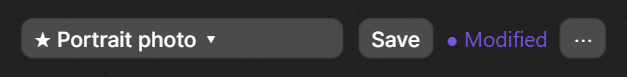
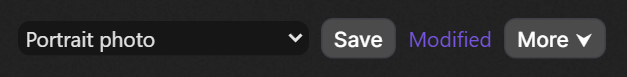
Make the picker a standard SwarmUI dropdown; match Swarm's wording and controls (#13)
Picker is select.auto-dropdown with Starred and folder groups; Swarm wording; folder shown beside starred workspaces.

diff --git a/Assets/workspaces.js b/Assets/workspaces.js
@@ -1381,43 +1381,45 @@ class HartsyWorkspacesManager {
 
     /**
      * Builds the toolbar element and wires its buttons. Call only from ensureToolbar, which makes sure there is just one.
-     * The picker and the "..." menu are SwarmUI's own popovers (AdvancedPopover), opened on demand, so they match every theme.
+     * The picker is a plain SwarmUI dropdown (select.auto-dropdown) and the menu is SwarmUI's own popover (AdvancedPopover), so both follow every theme.
      * @returns {Element} The new toolbar, not yet placed on the page.
      */
     buildToolbar() {
         let toolbar = createDiv(null, 'hartsy-workspaces-toolbar');
         toolbar.innerHTML = '<div class="hartsy-workspaces-bar">'
-            + '<button class="basic-button hartsy-workspaces-picker" title="Choose a workspace to load">No workspace</button>'
+            + '<select class="auto-dropdown hartsy-workspaces-picker" autocomplete="off" title="Choose a workspace to load"></select>'
             + '<button class="basic-button hartsy-workspaces-save" title="Save the current settings (Shift+S)">Save</button>'
-            + '<span class="hartsy-workspaces-modified" title="The settings differ from the saved workspace" hidden>● Modified</span>'
-            + '<button class="basic-button hartsy-workspaces-more" title="More actions" aria-label="More workspace actions">⋯</button>'
+            + '<span class="hartsy-workspaces-modified" title="The settings differ from the saved workspace" hidden>Modified</span>'
+            + '<button class="basic-button hartsy-workspaces-more" title="More workspace actions">More &#x2B9F;</button>'
             + '</div>'
             + '<div class="parens hartsy-workspaces-status" role="status"></div>';
         toolbar.querySelector('.hartsy-workspaces-save').addEventListener('click', () => {
             this.saveCurrent();
         });
-        // A click on a button whose own popover is open closes it (SwarmUI does that before this runs), so remember on mousedown whether it was open, to toggle instead of reopening. A click on the other button just switches popovers.
-        let wire = (selector, popoverId, open) => {
-            let button = toolbar.querySelector(selector);
-            let wasOpen = false;
-            button.addEventListener('mousedown', () => {
-                wasOpen = this.isPopoverOpen() && this.activePopover.id == popoverId;
-            });
-            button.addEventListener('click', () => {
-                let skip = wasOpen;
-                wasOpen = false;
-                if (!skip && !this.busy) {
-                    open(button.getBoundingClientRect());
-                }
-            });
-        };
-        wire('.hartsy-workspaces-picker', 'hartsy_workspaces_picker', rect => this.showPopover('hartsy_workspaces_picker', this.pickerButtons(), true, rect));
-        wire('.hartsy-workspaces-more', 'hartsy_workspaces_menu', rect => this.showPopover('hartsy_workspaces_menu', this.menuButtons(), false, rect));
+        let picker = toolbar.querySelector('.hartsy-workspaces-picker');
+        picker.addEventListener('change', async () => {
+            await this.pickWorkspace(picker.value);
+            // Whatever happened (loaded, declined, failed), show the workspace the Generate tab is really attached to.
+            this.refreshToolbar();
+        });
+        // A click on the button while its popover is open closes it (SwarmUI does that before this runs), so remember on mousedown whether it was open, to toggle instead of reopening.
+        let more = toolbar.querySelector('.hartsy-workspaces-more');
+        let wasOpen = false;
+        more.addEventListener('mousedown', () => {
+            wasOpen = this.isPopoverOpen();
+        });
+        more.addEventListener('click', () => {
+            let skip = wasOpen;
+            wasOpen = false;
+            if (!skip && !this.busy) {
+                this.openMenu(more.getBoundingClientRect());
+            }
+        });
         return toolbar;
     }
 
     /**
-     * Returns whether one of this toolbar's popovers is currently open.
+     * Returns whether the toolbar's menu popover is currently open.
      * @returns {boolean} True if open.
      */
     isPopoverOpen() {
@@ -1425,80 +1427,113 @@ class HartsyWorkspacesManager {
     }
 
     /**
-     * Opens a SwarmUI popover under a toolbar button, closing any popover of this toolbar that is already open.
-     * @param {string} id Popover ID.
-     * @param {Array<Object>} buttons Entries in AdvancedPopover's format: { key, key_html, title, searchable, action }.
-     * @param {boolean} canSearch True to include SwarmUI's search box.
+     * Opens the "More" menu as a SwarmUI popover under its button.
      * @param {DOMRect} rect The bounds of the button to open under.
      */
-    showPopover(id, buttons, canSearch, rect) {
+    openMenu(rect) {
         if (this.isPopoverOpen()) {
             this.activePopover.remove();
         }
-        this.activePopover = new AdvancedPopover(id, buttons, canSearch, rect.x, rect.bottom + 4, document.body);
+        this.activePopover = new AdvancedPopover('hartsy_workspaces_menu', this.menuButtons(), false, rect.x, rect.bottom + 4, document.body);
     }
 
     /**
-     * Builds the picker's entries: bookmarked workspaces first, then by folder, then by name, followed by the actions that leave the list.
-     * The folder shows beside the name and is searchable. Typing in the search box and pressing Enter loads the first match.
-     * @returns {Array<Object>} The popover entries.
-     */
-    pickerButtons() {
-        let text = value => `${value || ''}`;
-        let sorted = this.workspaces.slice().sort((a, b) => (b.bookmarked ? 1 : 0) - (a.bookmarked ? 1 : 0) || text(a.folder).localeCompare(text(b.folder)) || text(a.name).localeCompare(text(b.name)));
-        let buttons = [];
-        for (let workspace of sorted) {
-            let folder = workspace.folder ? ` <span class="parens">- ${escapeHtml(workspace.folder)}</span>` : '';
-            buttons.push({
-                key: workspace.name,
-                searchable: `${workspace.name} ${text(workspace.folder)}`,
-                key_html: `${workspace.id == this.currentId ? '✓ ' : ''}${workspace.bookmarked ? '★ ' : ''}${escapeHtml(workspace.name)}${folder}`,
-                action: () => this.pickWorkspace(workspace.id)
-            });
-        }
-        if (this.currentId) {
-            buttons.push({ key: 'No workspace (keep the current settings)', action: () => this.pickWorkspace('') });
-        }
-        buttons.push({ key: '+ New workspace...', title: 'Save the current settings as a new workspace', action: () => this.saveNew(false) });
-        return buttons;
-    }
-
-    /**
-     * Builds the "..." menu's entries. Entries that need a selected workspace are left out when none is selected.
+     * Builds the "More" menu's entries. Entries that need a selected workspace are left out when none is selected.
      * @returns {Array<Object>} The popover entries.
      */
     menuButtons() {
         let entry = this.getCurrentEntry();
-        let buttons = [{ key: 'Save As...', title: 'Save the current settings as a copy of this workspace', action: () => this.saveNew(true) }];
+        let buttons = [{ key: 'Save As New Workspace', title: 'Save the current settings as a new workspace, keeping this one as it is', action: () => this.saveNew(true) }];
         if (entry) {
-            buttons.push({ key: 'Reload saved version', title: 'Throw away unsaved changes and load the latest saved version of this workspace', action: () => this.loadWorkspace(this.currentId) });
-            buttons.push({ key: 'Rename...', action: () => this.renameCurrent() });
-            buttons.push({ key: entry.bookmarked ? 'Remove bookmark' : 'Bookmark', title: 'Bookmarked workspaces are listed first', action: () => this.toggleBookmark() });
-            buttons.push({ key: 'Folder...', title: 'Set this workspace\'s folder', action: () => this.editOrganization() });
+            buttons.push({ key: 'Reload Saved Version', title: 'Throw away unsaved changes and load the latest saved version of this workspace', action: () => this.loadWorkspace(this.currentId) });
+            buttons.push({ key: 'Rename Workspace', action: () => this.renameCurrent() });
+            buttons.push({ key: entry.bookmarked ? 'Unstar Workspace' : 'Star Workspace', title: 'Starred workspaces are listed first', action: () => this.toggleBookmark() });
+            buttons.push({ key: 'Set Folder', title: 'Set this workspace\'s folder', action: () => this.editOrganization() });
         }
         if (this.workspaces.length > 0) {
-            buttons.push({ key: 'Load part of a workspace...', title: 'Load only some parts of a workspace and leave everything else as it is', action: () => this.showPartialDialog() });
+            buttons.push({ key: 'Load Part of Workspace', title: 'Load only some parts of a workspace and leave everything else as it is', action: () => this.showPartialDialog() });
         }
         if (entry) {
-            buttons.push({ key: 'Delete this workspace', title: 'Delete this workspace. Your current settings stay as they are', action: () => this.deleteCurrent() });
+            buttons.push({ key: 'Delete Workspace', title: 'Delete this workspace. Your current settings stay as they are', action: () => this.deleteCurrent() });
         }
         return buttons;
     }
 
     /**
-     * Redraws the toolbar's picker label, button states, and modified marker from the current state.
+     * Fills the picker dropdown: "No workspace", then starred workspaces, then one group per folder, then unfiled ones, and selects the current workspace.
+     * With no stars and no folders the list is flat. Folder names are free text, so groups are kept in a Map, not a plain object.
+     * @param {Element} select The picker's select element.
+     */
+    fillPicker(select) {
+        select.innerHTML = '';
+        let addOption = (parent, value, text) => {
+            let option = document.createElement('option');
+            option.value = value;
+            option.textContent = text;
+            parent.append(option);
+        };
+        addOption(select, '', 'No workspace');
+        let sorted = this.workspaces.slice().sort((a, b) => `${a.name}`.localeCompare(`${b.name}`));
+        let starred = [];
+        let unfiled = [];
+        let folders = new Map();
+        for (let workspace of sorted) {
+            let folder = `${workspace.folder || ''}`;
+            if (workspace.bookmarked) {
+                starred.push(workspace);
+            }
+            else if (folder == '') {
+                unfiled.push(workspace);
+            }
+            else {
+                if (!folders.has(folder)) {
+                    folders.set(folder, []);
+                }
+                folders.get(folder).push(workspace);
+            }
+        }
+        let addGroup = (label, items, showFolder) => {
+            if (items.length == 0) {
+                return;
+            }
+            let group = document.createElement('optgroup');
+            group.label = label;
+            for (let workspace of items) {
+                // The Starred group mixes folders, so show the folder there: two starred workspaces can share a name.
+                addOption(group, workspace.id, showFolder && workspace.folder ? `${workspace.name} (${workspace.folder})` : workspace.name);
+            }
+            select.append(group);
+        };
+        let folderNames = Array.from(folders.keys()).sort((a, b) => a.localeCompare(b));
+        if (starred.length == 0 && folderNames.length == 0) {
+            for (let workspace of unfiled) {
+                addOption(select, workspace.id, workspace.name);
+            }
+        }
+        else {
+            addGroup('Starred', starred, true);
+            for (let folder of folderNames) {
+                addGroup(folder, folders.get(folder));
+            }
+            addGroup('Unfiled', unfiled);
+        }
+        select.value = this.currentId || '';
+        if (select.selectedIndex < 0) {
+            select.value = '';
+        }
+    }
+
+    /**
+     * Redraws the toolbar's picker, button states, and modified marker from the current state.
      */
     refreshToolbar() {
         let toolbar = document.querySelector('.hartsy-workspaces-toolbar');
         if (!toolbar) {
             return;
         }
-        let entry = this.getCurrentEntry();
-        let hasCurrent = entry != null;
-        let label = hasCurrent ? `${entry.bookmarked ? '★ ' : ''}${entry.name}` : 'No workspace';
+        let hasCurrent = this.getCurrentEntry() != null;
         let picker = toolbar.querySelector('.hartsy-workspaces-picker');
-        picker.textContent = `${label} ▾`;
-        picker.title = hasCurrent ? `${label}. Choose another workspace to load` : 'Choose a workspace to load';
+        this.fillPicker(picker);
         picker.disabled = this.busy;
         toolbar.querySelector('.hartsy-workspaces-more').disabled = this.busy;
         let save = toolbar.querySelector('.hartsy-workspaces-save');

diff --git a/Assets/workspaces.css b/Assets/workspaces.css
@@ -12,10 +12,6 @@
 .hartsy-workspaces-picker {
     flex: 1;
     min-width: 0;
-    overflow: hidden;
-    text-overflow: ellipsis;
-    white-space: nowrap;
-    text-align: left;
 }
 
 .hartsy-workspaces-modified {

diff --git a/README.md b/README.md
@@ -10,7 +10,7 @@ Early release. Everything described below works. It has been tested by hand in t
 
 ## Using it
 
-One row sits above the parameter list on the Generate tab: **[ workspace picker ] [ Save ] [ ... ]**.
+One row sits above the parameter list on the Generate tab: **[ workspace dropdown ] [ Save ] [ More ]**.
 
 ![The toolbar](docs/images/toolbar.png)
 
@@ -18,21 +18,21 @@ When the settings differ from the saved workspace, a "Modified" marker appears:
 
 ![The toolbar with unsaved changes](docs/images/toolbar-modified.png)
 
-- **Picker**: click it to open SwarmUI's searchable list of your workspaces: bookmarked ones first, then by folder, with the folder shown beside the name. Type to filter by name or folder, and press Enter to load the first match. Choosing a workspace replaces your current settings completely, and asks first if the current workspace has unsaved changes. "+ New workspace..." at the bottom saves the current settings under a new name.
+- **Picker**: a standard SwarmUI dropdown of your workspaces, grouped as Starred, then one group per folder, then Unfiled (a flat list if you use neither). Choosing a workspace replaces your current settings completely, and asks first if the current workspace has unsaved changes. With no workspace selected, Save asks for a name and creates one.
 - **Save** writes the current settings into the selected workspace (or asks for a name if none is selected). Shift+S does the same, except while you are typing in a field or a dialog or the image editor is open. If the workspace was changed elsewhere, nothing is overwritten and you are told.
 - **Modified** appears when the settings differ from the selected workspace, and goes away only after a successful save or load.
-- **...** holds everything else: Save As, Reload saved version, Rename, Bookmark, Folder, Load part of a workspace, and Delete.
+- **More** holds everything else: Save As New Workspace, Reload Saved Version, Rename Workspace, Star Workspace, Set Folder, Load Part of Workspace, and Delete Workspace.
 
-![The picker](docs/images/picker.png) ![The ... menu](docs/images/menu.png)
+![The More menu](docs/images/menu.png)
 
 ### More detail
 
-- **Save As** copies the folder (not the bookmark). **Reload saved version** throws away unsaved changes and loads the latest saved version, for example after it was changed elsewhere. **Delete** leaves your current settings as they are.
+- **Save As New Workspace** copies the folder (not the star). **Reload Saved Version** throws away unsaved changes and loads the latest saved version, for example after it was changed elsewhere. **Delete Workspace** leaves your current settings as they are.
 - **Load part of a workspace** opens a dialog to load only some parts: the model, the presets, or any parameter group. Only the ticked parts change, and everything else stays as it is. If you tick a group that is switched on inside a parent group that is off, the parent is switched on too, and you are told. The settings then count as modified, because they no longer match the workspace.
 
 ![Partial load dialog](docs/images/partial-load-dialog.png)
 
-- **Bookmark** lists a workspace first. **Folder** sets a folder name (at most 100 characters). Saving settings never changes a workspace's folder or bookmark.
+- **Star Workspace** lists a workspace first. **Set Folder** sets a folder name (at most 100 characters). Saving settings never changes a workspace's folder or star.
 - **Drafts**: while the selected workspace has unsaved changes, a draft of them is kept in your browser a couple of seconds after each change. If you reload the page or close the tab, a notice below the toolbar offers to **Restore** or **Discard** it. Restoring loads the workspace first and then puts the draft on top, so it shows as unsaved changes and never overwrites the saved workspace. Each browser tab keeps its own draft, and a draft from a tab that is still open is never offered.
 
 ## What a workspace saves, and what loading does

diff --git a/AGENTS.md b/AGENTS.md
@@ -44,7 +44,7 @@ Named workspaces for the SwarmUI Generate tab. A workspace is a snapshot of para
 
 - Must work on current Chrome, Firefox, Safari and on modern mobile browsers.
 - JS: `let`, never `var` or `const`; full braced blocks; `else {` on its own line, never `} else {`; `/** ... */` doc on every function; `for (...)` loops rather than `forEach`; use `Map` for user-keyed lookups (a folder named `__proto__` must not break anything).
-- CSS: almost none. Reuse SwarmUI's components: popovers via `AdvancedPopover` (search, scrolling and dismissal included), dialogs via the standard `modal` markup, buttons via `basic-button`, soft text via `parens`. Custom CSS is limited to laying out the toolbar row and two notices. Colors come only from SwarmUI theme variables (`--text`, `--emphasis`, `--background-soft`, ...), never hex, rgb or shadows. Class selectors only, never `#id`.
+- CSS: almost none. Reuse SwarmUI's own components and wording: the picker is a plain `select.auto-dropdown`, menus are `AdvancedPopover`, dialogs use the standard `modal` markup, buttons are `basic-button`, soft text is `parens`, and items are "starred", not "bookmarked". No custom checkmarks, stars or arrows. Custom CSS is limited to laying out the toolbar row and two notices. Colors come only from SwarmUI theme variables, never hex, rgb or shadows. Class selectors only, never `#id`.
 - New behavior goes into `HartsyWorkspacesManager`, not free functions. Check `util.js` and `site.js` in SwarmUI for an existing helper before writing one.
 - SwarmUI's `triggerChangeFor` dispatches non-bubbling events, so modified tracking uses capturing document listeners. Do not switch to bubbling listeners.
 - Escape all user-provided text (`escapeHtml`) before putting it in HTML. Names and folders are user input.
